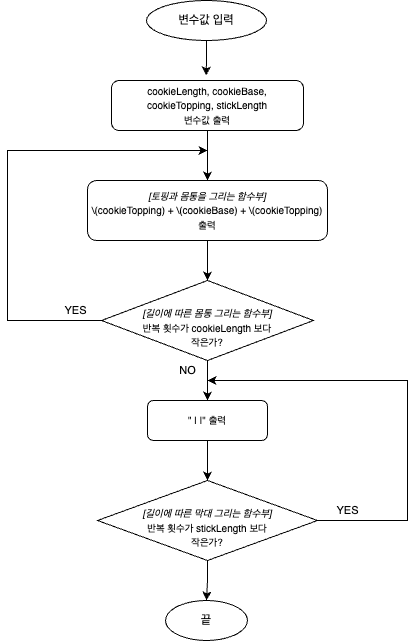
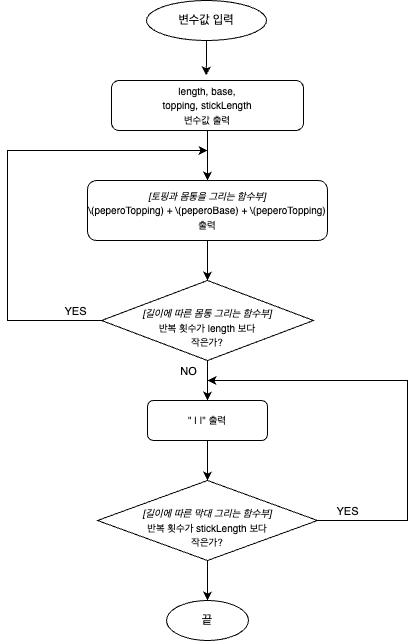
STEP3 수정사항 반영(Code 및 FlowChart)

diff --git a/CodeStarterCamp_Week1/main.swift b/CodeStarterCamp_Week1/main.swift
@@ -1,5 +1,5 @@
 //
-//  STEP3.swift
+//  main.swift
 //  CodeStarterCamp_Week1
 //
 //  Created by Jay Shin on 2/12/24.
@@ -7,35 +7,10 @@
 
 import Foundation
 
-drawCookie(cookieLength: 10, cookieBase: "***", cookieTopping: " ", stickLength: 4)
-drawCookie(cookieLength: 12, cookieBase: "***", cookieTopping: "&", stickLength: 4)
-drawCookie(cookieLength: 12, cookieBase: "***", cookieTopping: "#", stickLength: 6)
-drawCookie(cookieLength: 6, cookieBase: "|0|", cookieTopping: " ", stickLength: 4)
+drawPepero(length: 10, base: "***", topping: " ", stickLength: 4)
+drawPepero(length: 12, base: "***", topping: "&", stickLength: 4)
+drawPepero(length: 12, base: "***", topping: "#", stickLength: 6)
+drawPepero(length: 6, base: "|0|", topping: " ", stickLength: 4)
 
-func drawCookie(cookieLength: Int, cookieBase: String, cookieTopping: String, stickLength: Int) {
-    print("""
-<정보>
-길이: \(cookieLength)
-몸통: \(cookieBase)
-토핑: \(cookieTopping)
-막대길이: \(stickLength)
-""")
-    drawCookieBody(cookieLength: cookieLength, cookieBase: cookieBase, cookieTopping: cookieTopping)
-    drawCookieStick(stickLength: stickLength)
-}
-
-func drawCookieBody(cookieLength: Int, cookieBase: String, cookieTopping: String) {
-    for _ in 1...cookieLength {
-        drawcCookieType(cookieBase: cookieBase, cookieTopping: cookieTopping)
-    }
-}
-
-func drawcCookieType(cookieBase: String, cookieTopping: String) {
-    print("\(cookieTopping)\(cookieBase)\(cookieTopping)")
-}
-
-func drawCookieStick(stickLength: Int) {
-    for _ in 1...stickLength {
-        print(" | |")
-    }
-}
+// drawIceCreamBody(bodyWidth: 11, bodyHeight: 8)
+// drawIceCreamStick(stickLength: 5)

diff --git a/CodeStarterCamp_Week1/STEP3.swift b/CodeStarterCamp_Week1/STEP3.swift
@@ -1,0 +1,36 @@
+//
+//  STEP3.swift
+//  CodeStarterCamp_Week1
+//
+//  Created by Jay Shin on 2/13/24.
+//
+
+import Foundation
+
+func drawPepero(length: Int, base: String, topping: String, stickLength: Int) {
+    print("""
+          <정보>
+          길이: \(length)
+          몸통: \(base)
+          토핑: \(topping)
+          막대길이: \(stickLength)
+          """)
+    drawPeperoBody(length: length, base: base, topping: topping)
+    drawPeperoStick(stickLength: stickLength)
+}
+
+func drawPeperoBody(length: Int, base: String, topping: String) {
+    for _ in 1...length {
+        drawcPeperoType(peperoBase: base, peperoTopping: topping)
+    }
+}
+
+func drawcPeperoType(peperoBase: String, peperoTopping: String) {
+    print("\(peperoTopping)\(peperoBase)\(peperoTopping)")
+}
+
+func drawPeperoStick(stickLength: Int) {
+    for _ in 1...stickLength {
+        print(" | |")
+    }
+}

diff --git a/CodeStarterCamp_Week1/STEP2.swift b/CodeStarterCamp_Week1/STEP2.swift
@@ -1,5 +1,5 @@
 //
-//  main.swift
+//  STEP2.swift
 //  CodeStarterCamp_Week1
 //
 //  Created by yagom.
@@ -22,6 +22,3 @@ func drawIceCreamStick(stickLength: Int) {
         print("    | |")
     }
 }
-
-drawIceCreamBody(bodyWidth: 11, bodyHeight: 8)
-drawIceCreamStick(stickLength: 5)
